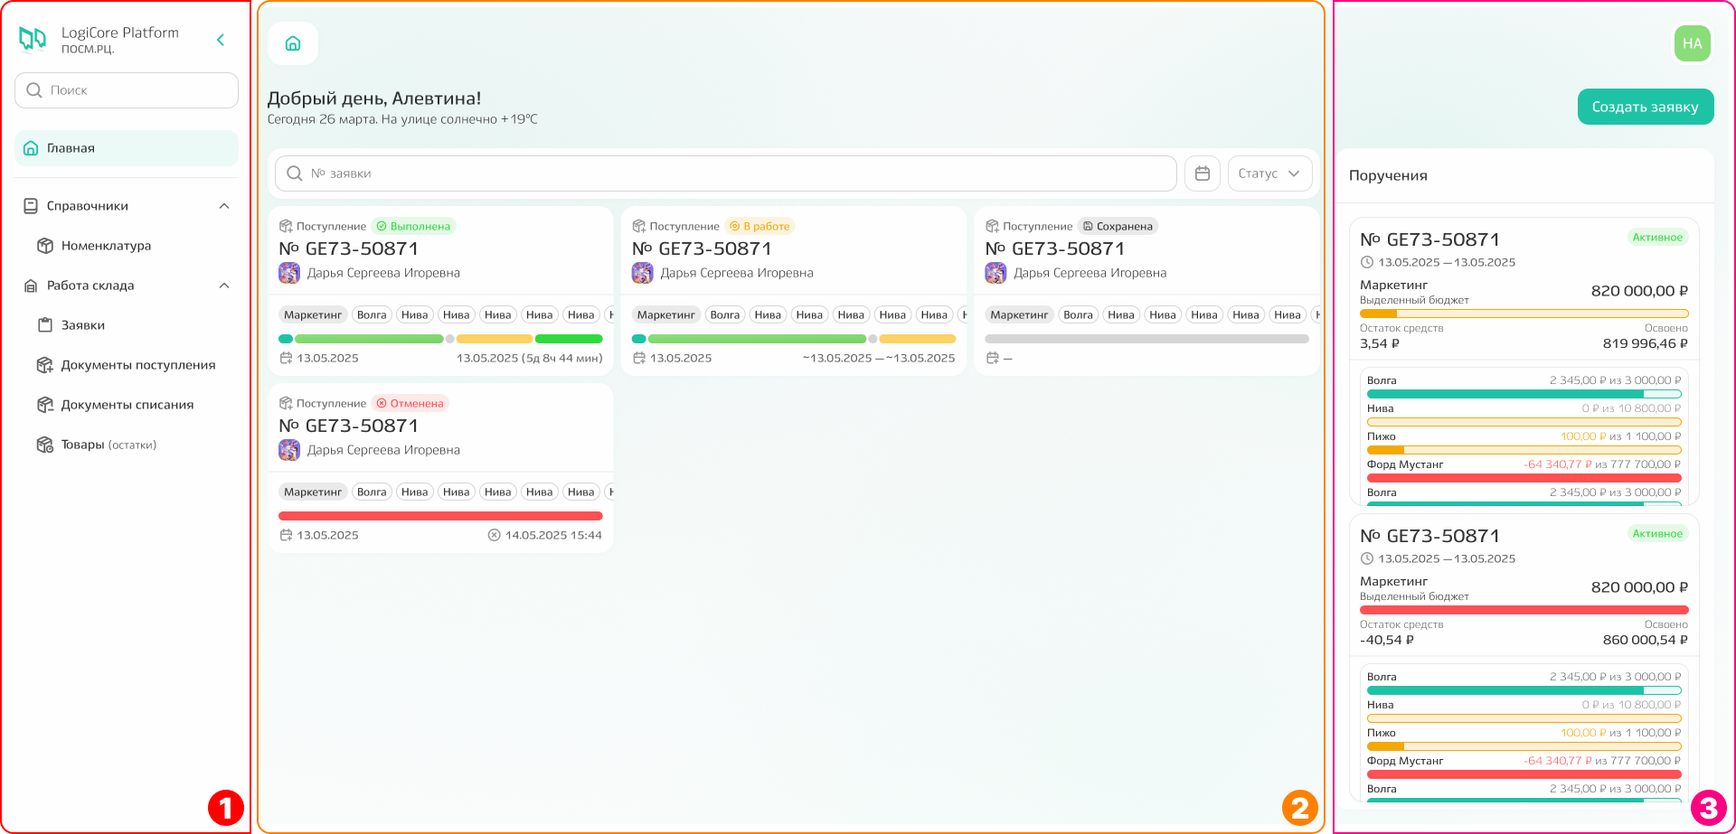
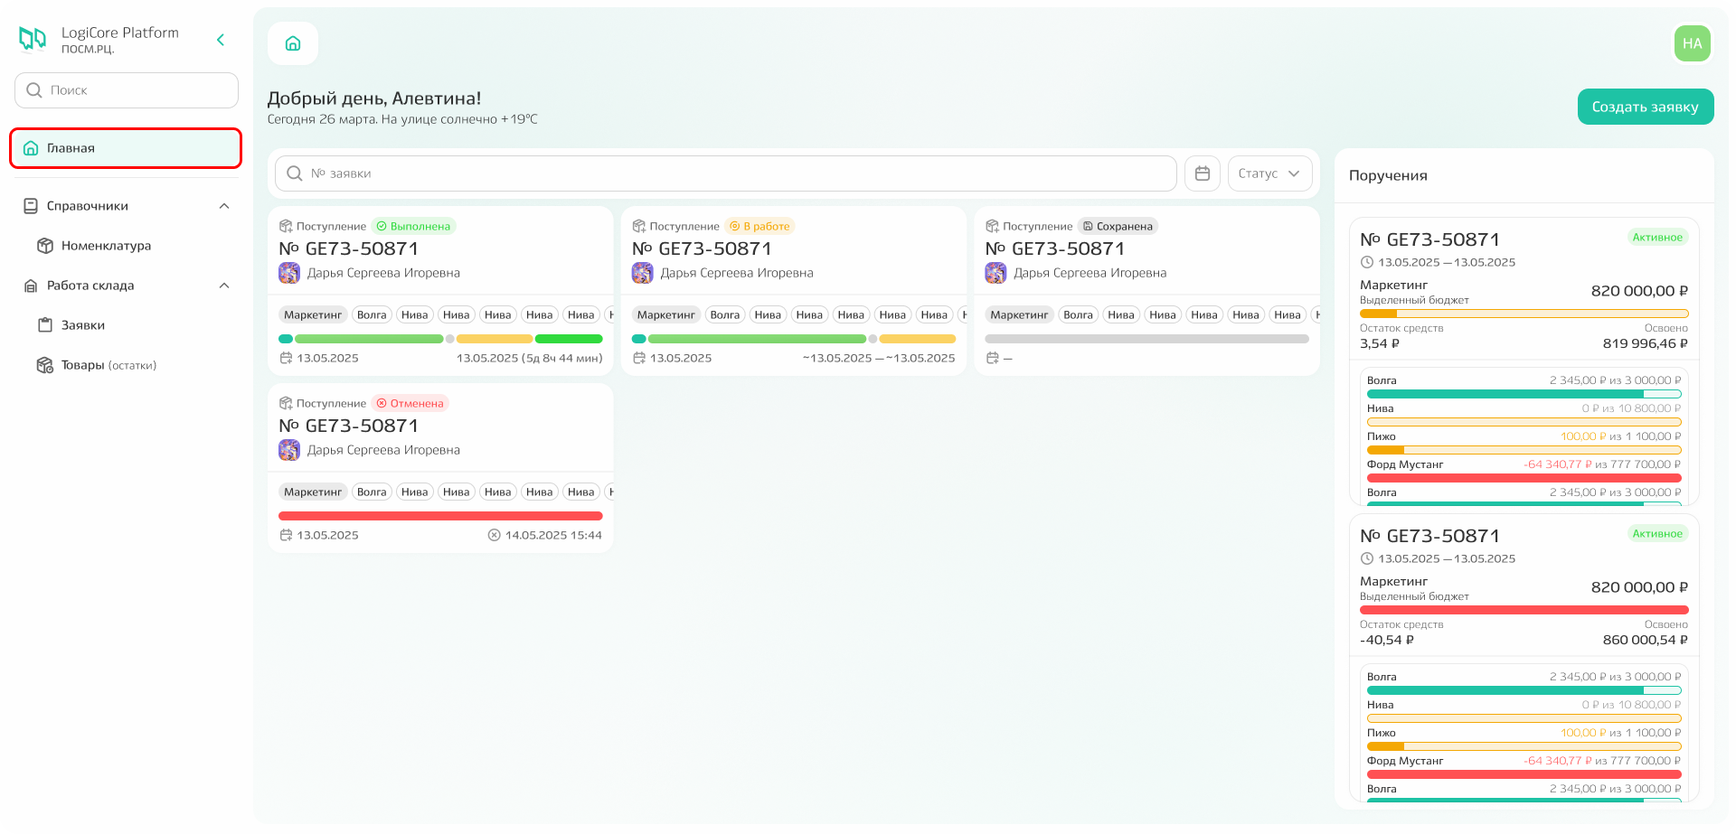
update about and index/toc

diff --git a/docs/ru/about.md b/docs/ru/about.md
@@ -6,86 +6,77 @@
 
 ![_modules_about](_images/auth_account_uni.png){.center width=1200}
 
+{% note warning %}
+
+**Если вы впервые входите в систему, действуйте по следующему алгоритму:**
+1. Обратитесь к владельцу бюджета (своему руководителю) — он должен добавить вас в систему.
+2. После добавления на вашу почту (ту, которую указал владелец бюджета) придёт письмо со ссылкой для активации.
+3. Перейдите по ссылке — откроется окно, где необходимо придумать пароль для учётной записи.
+4. Нажмите кнопку «Сохранить» — после этого вы перейдёте на страницу авторизации.
+5. Для входа в систему:
+    - в поле логин укажите ту же почту, на которую пришло письмо;
+    - в поле пароль введите созданный вами пароль.
+
+{% endnote %}
+
 ## Главная страница
 
-После авторизации происходит **переход к главной или стартовой странице.** 
+После авторизации автоматически происходит **переход к главной или стартовой странице.** 
 
-Визуально страницу можно разделить на 3 части: меню(1), рабочая область(2) и область с дополнительной информацией(3).
+**Главная страница** — это ваша стартовая точка работы в системе. Она позволяет быстро переключаться между ключевыми подсистемами в меню, а также видеть актуальное состояние вашего бюджета и заявок.
 
 ![_modules_about](_images/start_page_account.png){.center width=1200}
 
-Из **меню слева** можно перейти к 
-- справочнику номенклатуры;
-- списку заявок;
-- документам поступления;
-- документам списания;
-- товарным остаткам. 
-Взаимодействие с данными подсистемами описано отдельно. 
+### Профиль
 
-![_modules_about](_images/menu_acc.png){.center width=1200}
+В правом верхнем углу располагается **иконка профиля** с вашими инициалами. 
 
-В виде карточек **справа располагается информация о поручениях**: 1 карточка = 1 поручение.
-Поручения привязаны к брендам, с которыми вы работаете, или отделу, сотрудником которого вы являетесь. Поручения других отделов или брендов увидеть не получится.  
+![_modules_about](_images/start_page_profile.png){.center width=1200}
 
-![_modules_about](_images/list_of_poruch.png){.center width=1200}
+**Профиль** — это ваша личная учётная запись в системе. В нём содержатся все основные данные о вас как о пользователе: кто вы, к какому отделу и брендам относитесь, как с вами связаться. Эти данные используются для идентификации вас при создании заявок, назначении ответственных и в других рабочих процессах.
 
-**В карточке поручения отражена информация о:** 
-1. номере поручения;
-2. сроке действия поручения; 
-3. сумме бюджета, выделенного в рамках поручения на отдел;
-4. остатке средств, доступных к расходованию в рамках заявки;
-5. сумме уже израсходованных средств;
-6. балансе освоенных и доступных к освоению средств в разбивке по брендам;
-7. статусе поручения: активное/неактивное.
-
-Также есть цветовая индикация для бюджетов:
-- зеленый цвет - если средства израсходованы незначительно относительно выделенной суммы;  
-- желтый цвет - бюджет израсходован больше, чем на 90%;
-- красный цвет - бюджет полностью израсходован или имеет отрицательное значение.
-
-![_modules_about](_images/poruch_account.png){.center width=1200}
-
-В **рабочей области располагается список заявок**, которые вы оформили. Требуемую заявку можно найти с помощью поиска по номеру заявки, а также отфильтровать по статусу заявки или дате создания. 
-
-![_modules_about](_images/list_tasks.png){.center width=1200}
-
-Информация по заявкам также распределена в виде карточек, где отображена информация о:
-1. типе заявки (поступление/списание) и статусе заявки (выполнена/в работе/сохранена/отклонена);
-2. номере заявки;
-3. авторе заявки;
-4. отделе и брендах;
-5. этапе, на котором находится заявка - по наведению отобразится подсказка с названием этапа и планируемыми или фактическими датами начала и завершения работ;
-6. планируемых или фактических датах старта и завершения работ по заявке.
-
-![_modules_about](_images/task_account.png){.center width=1200}
-
-В зависимости от статуса заявки частично меняется информация, отображаемая в карточке заявки. 
-Например, по заявке со статусом «Выполнена» отражается только фактически затраченное время по каждому из этапов и по всей заявке в общем, а для заявки в статусе «Сохранена» только время создания заявки и время отмены, даже если до этого уже были выполнены какие-то работы. 
-
-![_modules_about](_images/tasks_of_account.png){.center width=1200}
-
-## Профиль
-
-**Чтобы посмотреть или отредактировать данные о себе, необходимо перейти в профиль.** 
-Для этого кликните по иконке в правом верхнем углу и выберите иконку профиля.
+**Данные о себе можно просмотреть.** Для этого:
+1. кликните по иконке с инициалами в правом верхнем углу;
+2. в выпадающем меню выберите пункт «Профиль».
 
 ![_modules_about](_images/profile_edit_1.png){.center width=1200}
 
-После чего откроется [сайдбар](*key_sidebar) с информацией о ФИО, почте, контактном номере телефона, должности, принадлежности к отделу и брендам. Также можно посмотреть активность: общее количество созданных заявок по месяцам.  
+После этого откроется **блок с информацией о вас,** где содержится информация о ФИО, электронной почте, номере телефона, должности, отделе и брендах, а также вашей активности — общем количестве созданных заявок по месяцам.
 
 ![_modules_about](_images/profile_edit_2.png){.center width=1200}
 
-Если требуется внести информацию о ФИО, почте или контактном номере телефона, то кликните по иконке редактирования, а далее сохраните внесённые изменения.
+**Чтобы отредактировать** ФИО, почту или номер телефона:
+1. нажмите на иконку редактирования;
+2. внесите нужные изменения;
+3. сохраните их.
 
 ![_modules_about](_images/profile_edit_3.png){.center width=1200}
 
 {% note warning %}
 
-**Изменить информацию о должности, принадлежности к отделу или бренду нельзя.** 
-Обратитесь к руководителю в случае, если требуется внести подобные изменения.
+**Изменить должность, отдел или бренды в профиле нельзя.** 
+Для корректировки этих данных обратитесь к своему руководителю, владельцу бюджета.
 
 {% endnote %}
 
-Далее при необходимости переходите к той части инструкции, которая описывает требуемый для выполнения работы функционал. 
+### Основная информация
 
-[*key_sidebar]: Сайдбар — элемент интерфейса в виде колонки слева или справа, визуально отделённый от основного контента. Он предоставляет вспомогательную навигацию, инструменты или контекстную информацию, дополняя, но не прерывая работу пользователя с основной страницей
+**Визуально страницу можно разделить на 3 основные зоны:**
+1. меню (слева);
+2. рабочая область (центр);
+3. область с информацией о бюджете (справа).
+
+![_modules_about](_images/start_page_account_zone.png){.center width=1200}
+
+Из **меню** можно перейти к 
+- справочнику номенклатуры — содержит информацию о товарах, хранящихся на стоке: логистические фото, характеристики упаковки и другие параметры;
+- списку заявок — все созданные вами заявки;
+- товарным остаткам — актуальные данные о наличии товаров на складе. 
+
+Взаимодействие с каждой из этих подсистем описано отдельно. Переходите к той части инструкции, которая описывает функционал, необходимый для вашей текущей задачи. 
+
+{% note tip %}
+
+Подробная информация обо всех элементах главной страницы доступна **в разделе «Дополнительно».**
+
+{% endnote %}

diff --git a/docs/ru/dopolnitelno.md b/docs/ru/dopolnitelno.md
@@ -1,0 +1,45 @@
+# Дополнительно
+
+![_modules_about](_images/menu_acc.png){.center width=1200}
+
+В виде карточек **справа располагается информация о поручениях**: 1 карточка = 1 поручение.
+Поручения привязаны к брендам, с которыми вы работаете, или отделу, сотрудником которого вы являетесь. Поручения других отделов или брендов увидеть не получится.  
+
+![_modules_about](_images/list_of_poruch.png){.center width=1200}
+
+**В карточке поручения отражена информация о:** 
+1. номере поручения;
+2. сроке действия поручения; 
+3. сумме бюджета, выделенного в рамках поручения на отдел;
+4. остатке средств, доступных к расходованию в рамках заявки;
+5. сумме уже израсходованных средств;
+6. балансе освоенных и доступных к освоению средств в разбивке по брендам;
+7. статусе поручения: активное/неактивное.
+
+Также есть цветовая индикация для бюджетов:
+- зеленый цвет - если средства израсходованы незначительно относительно выделенной суммы;  
+- желтый цвет - бюджет израсходован больше, чем на 90%;
+- красный цвет - бюджет полностью израсходован или имеет отрицательное значение.
+
+![_modules_about](_images/poruch_account.png){.center width=1200}
+
+В **рабочей области располагается список заявок**, которые вы оформили. Требуемую заявку можно найти с помощью поиска по номеру заявки, а также отфильтровать по статусу заявки или дате создания. 
+
+![_modules_about](_images/list_tasks.png){.center width=1200}
+
+Информация по заявкам также распределена в виде карточек, где отображена информация о:
+1. типе заявки (поступление/списание) и статусе заявки (выполнена/в работе/сохранена/отклонена);
+2. номере заявки;
+3. авторе заявки;
+4. отделе и брендах;
+5. этапе, на котором находится заявка - по наведению отобразится подсказка с названием этапа и планируемыми или фактическими датами начала и завершения работ;
+6. планируемых или фактических датах старта и завершения работ по заявке.
+
+![_modules_about](_images/task_account.png){.center width=1200}
+
+В зависимости от статуса заявки частично меняется информация, отображаемая в карточке заявки. 
+Например, по заявке со статусом «Выполнена» отражается только фактически затраченное время по каждому из этапов и по всей заявке в общем, а для заявки в статусе «Сохранена» только время создания заявки и время отмены, даже если до этого уже были выполнены какие-то работы. 
+
+![_modules_about](_images/tasks_of_account.png){.center width=1200}
+
+Далее при необходимости переходите к той части инструкции, которая описывает требуемый для выполнения работы функционал. 
